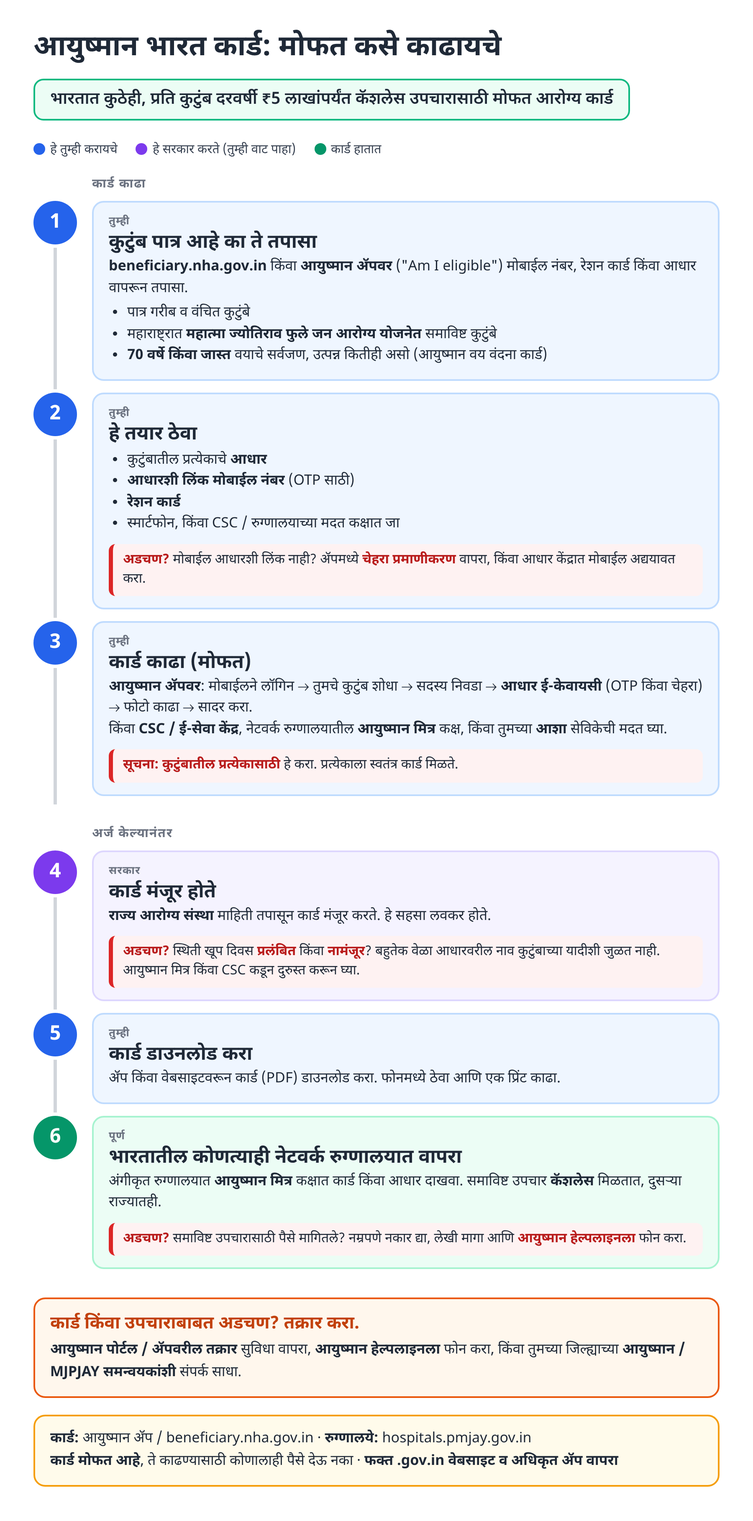
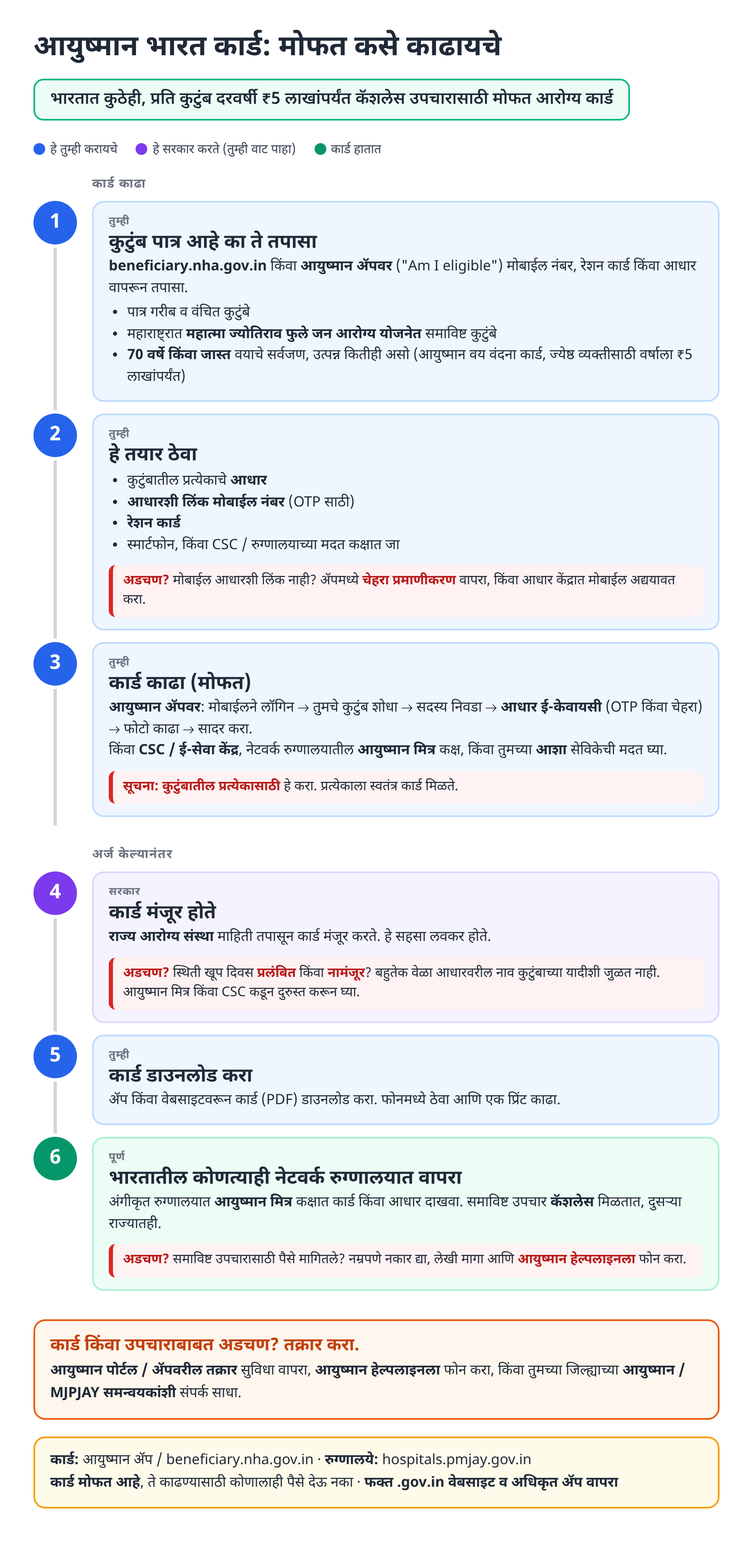
Verify batch 1 guides against sources and apply corrections
Ladki Bahin: annual eKYC, removals, possible registration closure.
PMAY-U 2.0: one-vertical rule and ISS figures.
Ayushman: Vay Vandana covers the senior individually.
Shiv Bhojan: scheme confirmed continuing.
MJPJAY, Annasaheb Patil: findings recorded, no guide change.

Claude-Session: https://claude.ai/code/session_01DHsCyWmbgmnicfdMBb55Ki

Changed region(s): [[0.0311, 0.0311, 0.9644, 0.964], [0.0311, 0.653, 0.0933, 0.7774]]

diff --git a/docs/workflows/ladki-bahin-guide-mr.html b/docs/workflows/ladki-bahin-guide-mr.html
@@ -39,11 +39,11 @@
   <div class="step you"><div class="rail"><div class="num">1</div><div class="line"></div></div><div class="card"><div class="who">तुम्ही</div><div class="title">पात्रता तपासा</div><div class="body"><ul><li><b>21 ते 65</b> वयाची महिला, <b>महाराष्ट्राची रहिवासी</b></li><li>विवाहित, विधवा, घटस्फोटित, परित्यक्ता किंवा निराधार, किंवा कुटुंबातील <b>एक अविवाहित महिला</b></li><li>कौटुंबिक उत्पन्न <b>वर्षाला ₹2.5 लाखांपर्यंत</b></li></ul></div></div></div>
   <div class="step you"><div class="rail"><div class="num">2</div><div class="line"></div></div><div class="card"><div class="who">तुम्ही</div><div class="title">कोण अर्ज करू शकत नाही</div><div class="body">तुमच्या कुटुंबातील कोणी:<ul><li>आयकर भरत असेल, किंवा सरकारी कर्मचारी / निवृत्तीवेतनधारक असेल</li><li><b>चारचाकी वाहन</b> असेल (ट्रॅक्टर चालतो)</li><li>खासदार / आमदार असेल किंवा मंडळ / महामंडळावर पद असेल</li></ul>तर तुम्ही <b>अर्ज करू शकत नाही</b>. तसेच दुसऱ्या सरकारी योजनेतून आधीच ₹1,500 किंवा जास्त मिळत असतील तरीही नाही.</div><div class="stuck"><b>अडचण?</b> पात्र नसताना अर्ज केल्यास नंतर पैसे <b>बंद होऊन वसूल</b> केले जाऊ शकतात. खरी माहिती द्या.</div></div></div>
   <div class="step you"><div class="rail"><div class="num">3</div><div class="line"></div></div><div class="card"><div class="who">तुम्ही</div><div class="title">कागदपत्रे तयार ठेवा</div><div class="body"><ul><li>आधार कार्ड</li><li><b>रहिवासाचा पुरावा</b>: अधिवास प्रमाणपत्र, किंवा जुने रेशन कार्ड / मतदार ओळखपत्र / शाळा सोडल्याचा दाखला / जन्म दाखला</li><li><b>उत्पन्नाचा दाखला</b></li><li>रेशन कार्ड, फोटो</li><li><b>आधारशी लिंक</b> असलेले बँक खाते</li><li>सही केलेले हमीपत्र</li></ul></div><div class="stuck"><b>सूचना:</b> <b>पिवळे किंवा केशरी रेशन कार्ड</b> आहे? मग सहसा उत्पन्नाच्या दाखल्याची <b>गरज नाही</b>. महाराष्ट्राबाहेर जन्म पण लग्न इथे झाले? पतीची रहिवासी कागदपत्रे वापरता येतात.</div></div></div>
-  <div class="step you"><div class="rail"><div class="num">4</div><div class="line"></div></div><div class="card"><div class="who">तुम्ही</div><div class="title">अर्ज करा (मोफत)</div><div class="body">यापैकी कोणताही एक मार्ग:<ul><li>वेबसाइट <b>ladakibahin.maharashtra.gov.in</b></li><li>तुमच्या <b>अंगणवाडी सेविका</b>, किंवा वॉर्ड / ग्रामपंचायत मदत कक्ष</li></ul>तुमचा <b>अर्ज क्रमांक</b> लिहून ठेवा.</div><div class="stuck"><b>सूचना:</b> अर्ज करणे <b>मोफत</b> आहे. फॉर्म भरण्यासाठी कोणालाही पैसे देऊ नका.</div></div></div>
+  <div class="step you"><div class="rail"><div class="num">4</div><div class="line"></div></div><div class="card"><div class="who">तुम्ही</div><div class="title">अर्ज करा (मोफत)</div><div class="body">यापैकी कोणताही एक मार्ग:<ul><li>वेबसाइट <b>ladakibahin.maharashtra.gov.in</b></li><li>तुमच्या <b>अंगणवाडी सेविका</b>, किंवा वॉर्ड / ग्रामपंचायत मदत कक्ष</li></ul>तुमचा <b>अर्ज क्रमांक</b> लिहून ठेवा.</div><div class="stuck"><b>अडचण?</b> <b>नवीन नोंदणी बंद असू शकते.</b> अर्ज करण्यापूर्वी पोर्टल तपासा किंवा अंगणवाडी सेविकेला विचारा. अर्ज करणे नेहमी <b>मोफत</b> आहे.</div></div></div>
   <div class="phase">अर्ज केल्यानंतर</div>
   <div class="step gov"><div class="rail"><div class="num">5</div><div class="line"></div></div><div class="card"><div class="who">सरकार</div><div class="title">अर्जाची तपासणी</div><div class="body">महिला व बालविकास विभागाचे अधिकारी तुमचा अर्ज आणि कागदपत्रे तपासतात.</div><div class="stuck"><b>अडचण?</b> अर्ज <b>नामंजूर</b> किंवा <b>परत पाठवला</b>? पोर्टलवर कारण वाचा किंवा अंगणवाडी सेविकेला विचारा. दुरुस्त करून पुन्हा सादर करा.</div></div></div>
-  <div class="step gov"><div class="rail"><div class="num">6</div><div class="line"></div></div><div class="card"><div class="who">सरकार</div><div class="title">मंजुरी: बँक व ई-केवायसी</div><div class="body">तुमचे नाव मंजूर यादीत येते. तुमचे बँक खाते <b>आधार-सीडेड आणि DBT सुरू</b> असले पाहिजे. सांगितल्यावर पोर्टलवर <b>ई-केवायसी</b> पूर्ण करा.</div><div class="stuck"><b>अडचण?</b> ई-केवायसी केली नाही? तुमचे पैसे <b>थांबू</b> शकतात. आधारशी लिंक मोबाईलवरील OTP वापरून पोर्टलवर करा.</div></div></div>
+  <div class="step gov"><div class="rail"><div class="num">6</div><div class="line"></div></div><div class="card"><div class="who">सरकार</div><div class="title">मंजुरी: बँक व ई-केवायसी</div><div class="body">तुमचे नाव मंजूर यादीत येते. तुमचे बँक खाते <b>आधार-सीडेड आणि DBT सुरू</b> असले पाहिजे. खिडकी सुरू झाल्यावर पोर्टलवर <b>दरवर्षी ई-केवायसी</b> पूर्ण करा.</div><div class="stuck"><b>अडचण?</b> ई-केवायसी चुकली? तुम्हाला <b>योजनेतून वगळले</b> जाऊ शकते. अशा प्रकारे लाखो नावे वगळली गेली. चुकीने वगळले (उदा. सरकारी कर्मचारी म्हणून)? पुराव्यासह तक्रार करा.</div></div></div>
   <div class="step done"><div class="rail"><div class="num">7</div></div><div class="card"><div class="who">पूर्ण</div><div class="title">दरमहा ₹1,500 खात्यात जमा</div><div class="body">पैसे <b>DBT</b> द्वारे येतात. बँकेकडून SMS येतो.</div><div class="stuck"><b>अडचण?</b> मंजूर झाले पण पैसे आले नाहीत? बँक खाते आधार-सीडेड नसेल किंवा बंद असेल. बँकेत <b>"आधार सीडिंग करा आणि DBT सुरू करा"</b> असे सांगा.</div></div></div>
   <div class="rights"><div class="t">पैसे येत नाहीत? तक्रार करा.</div>अर्ज क्रमांकासह <b>लाडकी बहीण पोर्टलवर तक्रार</b> नोंदवा, किंवा तुमच्या <b>अंगणवाडी सेविका</b> / जिल्हा <b>महिला व बालविकास कार्यालयाशी</b> संपर्क साधा.</div>
-  <div class="help"><b>ई-केवायसी, बँक लिंक आणि माहिती अचूक ठेवा</b>, सरकार लाभार्थ्यांची पुन्हा पडताळणी करू शकते<br><b>स्थिती तपासा:</b> ladakibahin.maharashtra.gov.in · <b>फक्त .gov.in वेबसाइट वापरा</b></div>
+  <div class="help"><b>दरवर्षी ई-केवायसी करा</b> आणि बँक लिंक व माहिती अचूक ठेवा, सरकार लाभार्थ्यांची पुन्हा पडताळणी करते<br><b>स्थिती तपासा:</b> ladakibahin.maharashtra.gov.in · <b>फक्त .gov.in वेबसाइट वापरा</b></div>
 </div></body></html>

diff --git a/docs/workflows/ladki-bahin-guide.html b/docs/workflows/ladki-bahin-guide.html
@@ -40,11 +40,11 @@
   <div class="step you"><div class="rail"><div class="num">1</div><div class="line"></div></div><div class="card"><div class="who">You</div><div class="title">Check if you can get it <span class="mr">पात्रता तपासा</span></div><div class="body"><ul><li>Woman aged <b>21 to 65</b>, living in <b>Maharashtra</b></li><li>Married, widowed, divorced, abandoned or destitute, or <b>one unmarried woman</b> per family</li><li>Family income <b>up to ₹2.5 lakh a year</b></li></ul></div></div></div>
   <div class="step you"><div class="rail"><div class="num">2</div><div class="line"></div></div><div class="card"><div class="who">You</div><div class="title">Check who cannot apply <span class="mr">कोण अर्ज करू शकत नाही</span></div><div class="body">You <b>cannot</b> apply if anyone in your family:<ul><li>Pays income tax, or is a government employee / pensioner</li><li>Owns a <b>four-wheeler</b> (tractor is allowed)</li><li>Is an MP / MLA or holds a board / corporation post</li></ul>Or if you already get ₹1,500 or more from another government scheme.</div><div class="stuck"><b>Stuck?</b> Applying when not eligible can mean the money is <b>stopped and recovered</b> later. Be honest.</div></div></div>
   <div class="step you"><div class="rail"><div class="num">3</div><div class="line"></div></div><div class="card"><div class="who">You</div><div class="title">Keep these papers ready <span class="mr">कागदपत्रे तयार ठेवा</span></div><div class="body"><ul><li>Aadhaar card</li><li><b>Domicile proof</b>: domicile certificate, or old ration card / voter ID / school leaving certificate / birth certificate</li><li><b>Income certificate</b></li><li>Ration card, photo</li><li>Bank account <b>linked to Aadhaar</b></li><li>Signed undertaking (हमीपत्र)</li></ul></div><div class="stuck"><b>Tip:</b> Have a <b>yellow or orange ration card</b>? You usually <b>don't need</b> an income certificate. Born outside Maharashtra but married here? Your husband's domicile documents can be used.</div></div></div>
-  <div class="step you"><div class="rail"><div class="num">4</div><div class="line"></div></div><div class="card"><div class="who">You</div><div class="title">Apply (it is free) <span class="mr">अर्ज करा (मोफत)</span></div><div class="body">Choose any one:<ul><li>Website <b>ladakibahin.maharashtra.gov.in</b></li><li>Your <b>Anganwadi Sevika</b>, or the ward / Gram Panchayat help desk</li></ul>Note your <b>application number</b>.</div><div class="stuck"><b>Tip:</b> Applying is <b>free</b>. Never pay anyone to fill the form.</div></div></div>
+  <div class="step you"><div class="rail"><div class="num">4</div><div class="line"></div></div><div class="card"><div class="who">You</div><div class="title">Apply (it is free) <span class="mr">अर्ज करा (मोफत)</span></div><div class="body">Choose any one:<ul><li>Website <b>ladakibahin.maharashtra.gov.in</b></li><li>Your <b>Anganwadi Sevika</b>, or the ward / Gram Panchayat help desk</li></ul>Note your <b>application number</b>.</div><div class="stuck"><b>Stuck?</b> <b>New registrations may be closed.</b> Check the portal or ask your Anganwadi Sevika before applying. Applying is always <b>free</b>.</div></div></div>
   <div class="phase">After you apply</div>
   <div class="step gov"><div class="rail"><div class="num">5</div><div class="line"></div></div><div class="card"><div class="who">Government</div><div class="title">Your application is checked <span class="mr">अर्जाची तपासणी</span></div><div class="body">Women and Child Development officials check your form and documents.</div><div class="stuck"><b>Stuck?</b> <b>Rejected</b> or <b>sent back</b>? Read the reason on the portal or ask your Anganwadi Sevika. Correct it and resubmit.</div></div></div>
-  <div class="step gov"><div class="rail"><div class="num">6</div><div class="line"></div></div><div class="card"><div class="who">Government</div><div class="title">Approved: bank and eKYC <span class="mr">मंजुरी: बँक व ई-केवायसी</span></div><div class="body">Your name goes on the approved list. Your bank account must be <b>Aadhaar-seeded with DBT on</b>. Complete <b>eKYC</b> on the portal when asked.</div><div class="stuck"><b>Stuck?</b> eKYC not done? Your money can <b>stop</b>. Do it on the portal with the OTP on your Aadhaar mobile.</div></div></div>
+  <div class="step gov"><div class="rail"><div class="num">6</div><div class="line"></div></div><div class="card"><div class="who">Government</div><div class="title">Approved: bank and eKYC <span class="mr">मंजुरी: बँक व ई-केवायसी</span></div><div class="body">Your name goes on the approved list. Your bank account must be <b>Aadhaar-seeded with DBT on</b>. Complete <b>eKYC every year</b> on the portal when the window opens.</div><div class="stuck"><b>Stuck?</b> Missed eKYC? You can be <b>removed from the scheme</b>. Lakhs of names were dropped this way. Wrongly removed (e.g. flagged as a government employee)? Raise a grievance with proof.</div></div></div>
   <div class="step done"><div class="rail"><div class="num">7</div></div><div class="card"><div class="who">Done</div><div class="title">₹1,500 in your account every month <span class="mr">दरमहा ₹1,500 खात्यात जमा</span></div><div class="body">The money comes by <b>DBT</b>. You get an SMS from your bank.</div><div class="stuck"><b>Stuck?</b> Approved but no money? Your bank account may not be Aadhaar-seeded or may be inactive. Ask the bank for <b>"Aadhaar seeding and DBT on"</b>.</div></div></div>
   <div class="rights"><div class="t">Money not coming? Complain.</div>Raise a <b>grievance on the Ladki Bahin portal</b> with your application number, or ask your <b>Anganwadi Sevika</b> / the district <b>Women and Child Development office</b>.</div>
-  <div class="help"><b>Keep your eKYC, bank link and details correct</b>, the government may re-verify beneficiaries<br><b>Check status:</b> ladakibahin.maharashtra.gov.in · <b>Use only .gov.in websites</b></div>
+  <div class="help"><b>Do eKYC every year</b> and keep your bank link and details correct, the government re-verifies beneficiaries<br><b>Check status:</b> ladakibahin.maharashtra.gov.in · <b>Use only .gov.in websites</b></div>
 </div></body></html>

diff --git a/docs/workflows/pmay-urban-guide-mr.html b/docs/workflows/pmay-urban-guide-mr.html
@@ -37,7 +37,7 @@
   <div class="legend"><span><span class="dot" style="background:#2563eb"></span>हे तुम्ही करायचे</span><span><span class="dot" style="background:#7c3aed"></span>हे सरकार / बँक करते (तुम्ही वाट पाहा)</span><span><span class="dot" style="background:#059669"></span>घर तयार</span></div>
   <div class="phase">अर्ज करण्यापूर्वी</div>
   <div class="step you"><div class="rail"><div class="num">1</div><div class="line"></div></div><div class="card"><div class="who">तुम्ही</div><div class="title">पात्रता तपासा</div><div class="body"><ul><li>तुम्ही <b>शहरात</b> राहता (गावांसाठी: प्रधानमंत्री आवास योजना - ग्रामीण पाहा)</li><li>तुमच्या कुटुंबातील कोणाचेही <b>भारतात कुठेही पक्के घर</b> नाही</li><li>कौटुंबिक उत्पन्न: <b>EWS</b> ₹3 लाखांपर्यंत · <b>LIG</b> ₹3 ते 6 लाख · <b>MIG</b> ₹6 ते 9 लाख वार्षिक</li></ul></div><div class="stuck"><b>सूचना:</b> घर सहसा <b>कुटुंबातील महिलेच्या नावावर</b> किंवा संयुक्त नावावर असते.</div></div></div>
-  <div class="step you"><div class="rail"><div class="num">2</div><div class="line"></div></div><div class="card"><div class="who">तुम्ही</div><div class="title">तुमच्यासाठी योग्य पर्याय निवडा</div><div class="body"><ul><li><b>स्वतःची जागा आहे, घर बांधायचे</b> → BLC: स्वतःच्या जागेवर बांधकामासाठी मदत (EWS)</li><li>सरकारी / भागीदारी प्रकल्पात <b>फ्लॅट घ्यायचा</b> → AHP (EWS)</li><li>बँकेकडून <b>गृहकर्ज घेताय</b> → ISS: व्याज अनुदान (EWS / LIG / MIG)</li><li><b>भाड्याने घर हवे</b> (कामगार, स्थलांतरित) → ARH: परवडणारे भाडेघर</li></ul></div></div></div>
+  <div class="step you"><div class="rail"><div class="num">2</div><div class="line"></div></div><div class="card"><div class="who">तुम्ही</div><div class="title">तुमच्यासाठी योग्य पर्याय निवडा</div><div class="body"><ul><li><b>स्वतःची जागा आहे, घर बांधायचे</b> → BLC: स्वतःच्या जागेवर बांधकामासाठी मदत (EWS)</li><li>सरकारी / भागीदारी प्रकल्पात <b>फ्लॅट घ्यायचा</b> → AHP (EWS)</li><li>बँकेकडून <b>गृहकर्ज घेताय</b> → ISS: व्याज अनुदान (EWS / LIG / MIG)</li><li><b>भाड्याने घर हवे</b> (कामगार, स्थलांतरित) → ARH: परवडणारे भाडेघर</li></ul></div><div class="stuck"><b>सूचना:</b> यापैकी <b>एकच</b> पर्याय वापरता येतो. ISS मध्ये ₹35 लाखांपर्यंतच्या घरासाठी ₹25 लाखांपर्यंतच्या कर्जावर <b>₹1.80 लाखांपर्यंत</b> व्याज अनुदान मिळते.</div></div></div>
   <div class="step you"><div class="rail"><div class="num">3</div><div class="line"></div></div><div class="card"><div class="who">तुम्ही</div><div class="title">कागदपत्रे तयार ठेवा</div><div class="body"><ul><li>कुटुंबातील <b>सर्व सदस्यांचे</b> आधार</li><li>उत्पन्नाचा दाखला / ITR</li><li><b>आधारशी लिंक</b> असलेले बँक खाते</li><li>पक्के घर नसल्याचे स्वयंघोषणापत्र</li><li>BLC साठी: तुमच्या नावावरील <b>जागा / मालमत्ता पत्रक</b></li><li>लागू असल्यास जातीचा दाखला</li></ul></div><div class="stuck"><b>अडचण?</b> जागा तुमच्या नावावर नाही? आधी मालमत्ता पत्रक / फेरफार अद्ययावत करा. BLC साठी जागा कुटुंबाच्या नावावर असावी लागते.</div></div></div>
   <div class="step you"><div class="rail"><div class="num">4</div><div class="line"></div></div><div class="card"><div class="who">तुम्ही</div><div class="title">अर्ज करा (मोफत)</div><div class="body">यापैकी कोणताही एक मार्ग:<ul><li>वेबसाइट <b>pmay-urban.gov.in</b> (आधार OTP)</li><li>तुमच्या <b>महानगरपालिका / नगरपरिषदेतील</b> PMAY कक्ष</li><li>ISS साठी: तुमच्या <b>बँक / गृहवित्त कंपनीमार्फतही</b></li></ul>तुमचा <b>अर्ज क्रमांक</b> लिहून ठेवा.</div><div class="stuck"><b>सूचना:</b> <b>बनावट PMAY वेबसाइट आणि एजंटपासून</b> सावध राहा. अर्ज मोफत आहे. "निवड करून देण्यासाठी" कोणालाही पैसे देऊ नका.</div></div></div>
   <div class="phase">अर्ज केल्यानंतर</div>

diff --git a/docs/workflows/ayushman-card-guide-mr.html b/docs/workflows/ayushman-card-guide-mr.html
@@ -36,7 +36,7 @@
   <div class="benefit">भारतात कुठेही, प्रति कुटुंब दरवर्षी ₹5 लाखांपर्यंत कॅशलेस उपचारासाठी मोफत आरोग्य कार्ड</div>
   <div class="legend"><span><span class="dot" style="background:#2563eb"></span>हे तुम्ही करायचे</span><span><span class="dot" style="background:#7c3aed"></span>हे सरकार करते (तुम्ही वाट पाहा)</span><span><span class="dot" style="background:#059669"></span>कार्ड हातात</span></div>
   <div class="phase">कार्ड काढा</div>
-  <div class="step you"><div class="rail"><div class="num">1</div><div class="line"></div></div><div class="card"><div class="who">तुम्ही</div><div class="title">कुटुंब पात्र आहे का ते तपासा</div><div class="body"><b>beneficiary.nha.gov.in</b> किंवा <b>आयुष्मान ॲपवर</b> ("Am I eligible") मोबाईल नंबर, रेशन कार्ड किंवा आधार वापरून तपासा.<ul><li>पात्र गरीब व वंचित कुटुंबे</li><li>महाराष्ट्रात <b>महात्मा ज्योतिराव फुले जन आरोग्य योजनेत</b> समाविष्ट कुटुंबे</li><li><b>70 वर्षे किंवा जास्त</b> वयाचे सर्वजण, उत्पन्न कितीही असो (आयुष्मान वय वंदना कार्ड)</li></ul></div></div></div>
+  <div class="step you"><div class="rail"><div class="num">1</div><div class="line"></div></div><div class="card"><div class="who">तुम्ही</div><div class="title">कुटुंब पात्र आहे का ते तपासा</div><div class="body"><b>beneficiary.nha.gov.in</b> किंवा <b>आयुष्मान ॲपवर</b> ("Am I eligible") मोबाईल नंबर, रेशन कार्ड किंवा आधार वापरून तपासा.<ul><li>पात्र गरीब व वंचित कुटुंबे</li><li>महाराष्ट्रात <b>महात्मा ज्योतिराव फुले जन आरोग्य योजनेत</b> समाविष्ट कुटुंबे</li><li><b>70 वर्षे किंवा जास्त</b> वयाचे सर्वजण, उत्पन्न कितीही असो (आयुष्मान वय वंदना कार्ड, ज्येष्ठ व्यक्तीसाठी वर्षाला ₹5 लाखांपर्यंत)</li></ul></div></div></div>
   <div class="step you"><div class="rail"><div class="num">2</div><div class="line"></div></div><div class="card"><div class="who">तुम्ही</div><div class="title">हे तयार ठेवा</div><div class="body"><ul><li>कुटुंबातील प्रत्येकाचे <b>आधार</b></li><li><b>आधारशी लिंक मोबाईल नंबर</b> (OTP साठी)</li><li><b>रेशन कार्ड</b></li><li>स्मार्टफोन, किंवा CSC / रुग्णालयाच्या मदत कक्षात जा</li></ul></div><div class="stuck"><b>अडचण?</b> मोबाईल आधारशी लिंक नाही? ॲपमध्ये <b>चेहरा प्रमाणीकरण</b> वापरा, किंवा आधार केंद्रात मोबाईल अद्ययावत करा.</div></div></div>
   <div class="step you"><div class="rail"><div class="num">3</div><div class="line"></div></div><div class="card"><div class="who">तुम्ही</div><div class="title">कार्ड काढा (मोफत)</div><div class="body"><b>आयुष्मान ॲपवर</b>: मोबाईलने लॉगिन → तुमचे कुटुंब शोधा → सदस्य निवडा → <b>आधार ई-केवायसी</b> (OTP किंवा चेहरा) → फोटो काढा → सादर करा.<br>किंवा <b>CSC / ई-सेवा केंद्र</b>, नेटवर्क रुग्णालयातील <b>आयुष्मान मित्र</b> कक्ष, किंवा तुमच्या <b>आशा</b> सेविकेची मदत घ्या.</div><div class="stuck"><b>सूचना:</b> <b>कुटुंबातील प्रत्येकासाठी</b> हे करा. प्रत्येकाला स्वतंत्र कार्ड मिळते.</div></div></div>
   <div class="phase">अर्ज केल्यानंतर</div>

diff --git a/docs/workflows/shiv-bhojan-guide-mr.html b/docs/workflows/shiv-bhojan-guide-mr.html
@@ -37,7 +37,7 @@
   <div class="legend"><span><span class="dot" style="background:#2563eb"></span>हे तुम्ही करायचे</span><span><span class="dot" style="background:#7c3aed"></span>हे केंद्र करते</span><span><span class="dot" style="background:#059669"></span>जेवण मिळाले</span></div>
   <div class="phase">जाण्यापूर्वी</div>
   <div class="step you"><div class="rail"><div class="num">1</div><div class="line"></div></div><div class="card"><div class="who">तुम्ही</div><div class="title">थाळीत काय मिळते</div><div class="body">सुमारे <b>₹10</b> मध्ये <b>चपाती, भाजी, वरण आणि भात</b> असलेली थाळी.<br><b>कोणीही</b> जेवू शकतो. <b>रेशन कार्ड किंवा कोणतेही कागदपत्र</b> लागत नाही.</div></div></div>
-  <div class="step you"><div class="rail"><div class="num">2</div><div class="line"></div></div><div class="card"><div class="who">तुम्ही</div><div class="title">शिवभोजन केंद्र शोधा</div><div class="body">केंद्रे सहसा शहरे व तालुक्याच्या ठिकाणी <b>रुग्णालये, बस स्थानके, बाजार आणि सरकारी कार्यालयांजवळ</b> असतात. स्थानिक लोकांना किंवा <b>तहसील / जिल्हा पुरवठा कार्यालयात</b> विचारा.</div><div class="stuck"><b>सूचना:</b> जाण्यापूर्वी केंद्र सुरू आहे का ते तपासा. केंद्रांची संख्या बदलू शकते.</div></div></div>
+  <div class="step you"><div class="rail"><div class="num">2</div><div class="line"></div></div><div class="card"><div class="who">तुम्ही</div><div class="title">शिवभोजन केंद्र शोधा</div><div class="body">केंद्रे सहसा शहरे व तालुक्याच्या ठिकाणी <b>रुग्णालये, बस स्थानके, बाजार आणि सरकारी कार्यालयांजवळ</b> असतात. स्थानिक लोकांना किंवा <b>तहसील / जिल्हा पुरवठा कार्यालयात</b> विचारा.</div><div class="stuck"><b>सूचना:</b> योजना सुरू आहे, पण एखादे केंद्र बंद होऊ शकते. जाण्यापूर्वी केंद्र सुरू आहे का ते तपासा.</div></div></div>
   <div class="step you"><div class="rail"><div class="num">3</div><div class="line"></div></div><div class="card"><div class="who">तुम्ही</div><div class="title">जेवणाच्या वेळी जा</div><div class="body">केंद्रे मुख्यतः <b>दुपारच्या जेवणाच्या वेळी</b> जेवण देतात. प्रत्येक केंद्राला दररोज <b>ठराविक थाळ्या</b> असतात.</div><div class="stuck"><b>सूचना:</b> <b>लवकर जा.</b> थाळ्या अनेकदा संपतात.</div></div></div>
   <div class="phase">केंद्रावर</div>
   <div class="step gov"><div class="rail"><div class="num">4</div><div class="line"></div></div><div class="card"><div class="who">केंद्र</div><div class="title">₹10 द्या, केंद्र नोंद करते</div><div class="body">ठरलेली रक्कम द्या. केंद्र शिवभोजन ॲपमध्ये तुमचे <b>नाव आणि फोटो</b> घेते. यावरूनच सरकार थाळ्या मोजून केंद्राला पैसे देते.</div><div class="stuck"><b>सूचना:</b> फोटो घेणे <b>सामान्य आणि आवश्यक</b> आहे. त्यासाठी पैसे लागत नाहीत आणि इतर योजनांवर परिणाम होत नाही.</div></div></div>

diff --git a/docs/workflows/pmay-urban-guide.html b/docs/workflows/pmay-urban-guide.html
@@ -38,7 +38,7 @@
   <div class="legend"><span><span class="dot" style="background:#2563eb"></span>You do this</span><span><span class="dot" style="background:#7c3aed"></span>Government / bank does this (you wait)</span><span><span class="dot" style="background:#059669"></span>Home ready</span></div>
   <div class="phase">Before you apply</div>
   <div class="step you"><div class="rail"><div class="num">1</div><div class="line"></div></div><div class="card"><div class="who">You</div><div class="title">Check if you can get it <span class="mr">पात्रता तपासा</span></div><div class="body"><ul><li>You live in a <b>city or town</b> (villages: see PMAY-Gramin)</li><li>No one in your family owns a <b>pucca house anywhere in India</b></li><li>Family income: <b>EWS</b> up to ₹3 lakh · <b>LIG</b> ₹3 to 6 lakh · <b>MIG</b> ₹6 to 9 lakh a year</li></ul></div><div class="stuck"><b>Tip:</b> The house is usually in the name of the <b>woman of the family</b>, or jointly.</div></div></div>
-  <div class="step you"><div class="rail"><div class="num">2</div><div class="line"></div></div><div class="card"><div class="who">You</div><div class="title">Pick the option that fits you <span class="mr">तुमच्यासाठी योग्य पर्याय निवडा</span></div><div class="body"><ul><li><b>Own land, want to build</b> → BLC: help to build on your own plot (EWS)</li><li><b>Want to buy a flat</b> in a government / partner project → AHP (EWS)</li><li><b>Taking a home loan</b> from a bank → ISS: interest subsidy (EWS / LIG / MIG)</li><li><b>Need to rent</b> (workers, migrants) → ARH: affordable rental</li></ul></div></div></div>
+  <div class="step you"><div class="rail"><div class="num">2</div><div class="line"></div></div><div class="card"><div class="who">You</div><div class="title">Pick the option that fits you <span class="mr">तुमच्यासाठी योग्य पर्याय निवडा</span></div><div class="body"><ul><li><b>Own land, want to build</b> → BLC: help to build on your own plot (EWS)</li><li><b>Want to buy a flat</b> in a government / partner project → AHP (EWS)</li><li><b>Taking a home loan</b> from a bank → ISS: interest subsidy (EWS / LIG / MIG)</li><li><b>Need to rent</b> (workers, migrants) → ARH: affordable rental</li></ul></div><div class="stuck"><b>Tip:</b> You can use <b>only one</b> of these options. ISS gives up to <b>₹1.80 lakh</b> interest subsidy on loans up to ₹25 lakh for houses worth up to ₹35 lakh.</div></div></div>
   <div class="step you"><div class="rail"><div class="num">3</div><div class="line"></div></div><div class="card"><div class="who">You</div><div class="title">Keep these papers ready <span class="mr">कागदपत्रे तयार ठेवा</span></div><div class="body"><ul><li>Aadhaar of <b>all family members</b></li><li>Income certificate / ITR</li><li>Bank account <b>linked to Aadhaar</b></li><li>Self-declaration that you own no pucca house</li><li>For BLC: <b>land / property card</b> in your name</li><li>Caste certificate, if applicable</li></ul></div><div class="stuck"><b>Stuck?</b> Plot not in your name? Get the property card / mutation updated first. BLC needs land in the family's name.</div></div></div>
   <div class="step you"><div class="rail"><div class="num">4</div><div class="line"></div></div><div class="card"><div class="who">You</div><div class="title">Apply (it is free) <span class="mr">अर्ज करा (मोफत)</span></div><div class="body">Choose any one:<ul><li>Website <b>pmay-urban.gov.in</b> (Aadhaar OTP)</li><li>Your <b>municipal corporation / council</b> PMAY cell</li><li>For ISS: also through your <b>bank / housing finance company</b></li></ul>Note your <b>application number</b>.</div><div class="stuck"><b>Tip:</b> Beware of <b>fake PMAY websites and agents</b>. Applying is free. Never pay to "get selected".</div></div></div>
   <div class="phase">After you apply</div>

diff --git a/docs/workflows/ayushman-card-guide.html b/docs/workflows/ayushman-card-guide.html
@@ -37,7 +37,7 @@
   <div class="benefit">Free health card for cashless treatment up to ₹5 lakh per family per year, anywhere in India</div>
   <div class="legend"><span><span class="dot" style="background:#2563eb"></span>You do this</span><span><span class="dot" style="background:#7c3aed"></span>Government does this (you wait)</span><span><span class="dot" style="background:#059669"></span>Card in hand</span></div>
   <div class="phase">Make the card</div>
-  <div class="step you"><div class="rail"><div class="num">1</div><div class="line"></div></div><div class="card"><div class="who">You</div><div class="title">Check if your family is eligible <span class="mr">पात्रता तपासा</span></div><div class="body">Check on <b>beneficiary.nha.gov.in</b> or the <b>Ayushman app</b> ("Am I eligible") using your mobile number, ration card or Aadhaar.<ul><li>Eligible poor and vulnerable families</li><li>In Maharashtra, families covered under <b>MJPJAY</b></li><li>Everyone aged <b>70 or more</b>, whatever their income (Ayushman Vay Vandana card)</li></ul></div></div></div>
+  <div class="step you"><div class="rail"><div class="num">1</div><div class="line"></div></div><div class="card"><div class="who">You</div><div class="title">Check if your family is eligible <span class="mr">पात्रता तपासा</span></div><div class="body">Check on <b>beneficiary.nha.gov.in</b> or the <b>Ayushman app</b> ("Am I eligible") using your mobile number, ration card or Aadhaar.<ul><li>Eligible poor and vulnerable families</li><li>In Maharashtra, families covered under <b>MJPJAY</b></li><li>Everyone aged <b>70 or more</b>, whatever their income (Ayushman Vay Vandana card, up to ₹5 lakh a year for the senior)</li></ul></div></div></div>
   <div class="step you"><div class="rail"><div class="num">2</div><div class="line"></div></div><div class="card"><div class="who">You</div><div class="title">Keep these ready <span class="mr">हे तयार ठेवा</span></div><div class="body"><ul><li><b>Aadhaar</b> of each family member</li><li><b>Mobile number linked to Aadhaar</b> (for OTP)</li><li><b>Ration card</b></li><li>A smartphone, or go to a CSC / hospital help desk</li></ul></div><div class="stuck"><b>Stuck?</b> Mobile not linked to Aadhaar? Use <b>face authentication</b> in the app, or update the mobile at an Aadhaar centre.</div></div></div>
   <div class="step you"><div class="rail"><div class="num">3</div><div class="line"></div></div><div class="card"><div class="who">You</div><div class="title">Make the card (it is free) <span class="mr">कार्ड काढा (मोफत)</span></div><div class="body">On the <b>Ayushman app</b>: log in with mobile → search your family → select a member → <b>Aadhaar eKYC</b> (OTP or face) → take photo → submit.<br>Or get help at a <b>CSC / e-Seva Kendra</b>, the <b>Ayushman Mitra</b> desk at a network hospital, or your <b>ASHA</b> worker.</div><div class="stuck"><b>Tip:</b> Repeat for <b>every family member</b>. Each person gets their own card.</div></div></div>
   <div class="phase">After you apply</div>

diff --git a/docs/workflows/shiv-bhojan-guide.html b/docs/workflows/shiv-bhojan-guide.html
@@ -38,7 +38,7 @@
   <div class="legend"><span><span class="dot" style="background:#2563eb"></span>You do this</span><span><span class="dot" style="background:#7c3aed"></span>Centre does this</span><span><span class="dot" style="background:#059669"></span>Meal served</span></div>
   <div class="phase">Before you go</div>
   <div class="step you"><div class="rail"><div class="num">1</div><div class="line"></div></div><div class="card"><div class="who">You</div><div class="title">Know what you get <span class="mr">थाळीत काय मिळते</span></div><div class="body">A thali with <b>chapatis, a vegetable, dal and rice</b> for about <b>₹10</b>.<br><b>Anyone</b> can eat. <b>No ration card or document</b> is needed.</div></div></div>
-  <div class="step you"><div class="rail"><div class="num">2</div><div class="line"></div></div><div class="card"><div class="who">You</div><div class="title">Find a Shiv Bhojan centre <span class="mr">शिवभोजन केंद्र शोधा</span></div><div class="body">Centres are usually near <b>hospitals, bus stands, markets and government offices</b> in towns and taluka places. Ask locally or at the <b>Tahsil / District Supply Office</b>.</div><div class="stuck"><b>Tip:</b> Check the centre is still running before you travel. The number of centres can change.</div></div></div>
+  <div class="step you"><div class="rail"><div class="num">2</div><div class="line"></div></div><div class="card"><div class="who">You</div><div class="title">Find a Shiv Bhojan centre <span class="mr">शिवभोजन केंद्र शोधा</span></div><div class="body">Centres are usually near <b>hospitals, bus stands, markets and government offices</b> in towns and taluka places. Ask locally or at the <b>Tahsil / District Supply Office</b>.</div><div class="stuck"><b>Tip:</b> The scheme is running, but individual centres can close. Check the centre is open before you travel.</div></div></div>
   <div class="step you"><div class="rail"><div class="num">3</div><div class="line"></div></div><div class="card"><div class="who">You</div><div class="title">Go at meal time <span class="mr">जेवणाच्या वेळी जा</span></div><div class="body">Centres serve mainly at <b>lunch time</b> (around midday). Each centre has a <b>limited number of plates</b> per day.</div><div class="stuck"><b>Tip:</b> <b>Go early.</b> Plates often run out.</div></div></div>
   <div class="phase">At the centre</div>
   <div class="step gov"><div class="rail"><div class="num">4</div><div class="line"></div></div><div class="card"><div class="who">Centre</div><div class="title">Pay ₹10, centre records you <span class="mr">₹10 द्या, केंद्र नोंद करते</span></div><div class="body">Pay the fixed amount. The centre takes your <b>name and photo</b> in the Shiv Bhojan app. This is how the government counts plates and pays the centre.</div><div class="stuck"><b>Tip:</b> The photo is <b>normal and required</b>. It is not a charge and does not stop you from other schemes.</div></div></div>

diff --git a/docs/workflows/ladki_bahin_content.py b/docs/workflows/ladki_bahin_content.py
@@ -24,20 +24,20 @@ T = {
     ("tip", "Have a <b>yellow or orange ration card</b>? You usually <b>don't need</b> an income certificate. Born outside Maharashtra but married here? Your husband's domicile documents can be used.")),
    ("you", "Apply (it is free)", "अर्ज करा (मोफत)",
     "Choose any one:<ul><li>Website <b>ladakibahin.maharashtra.gov.in</b></li><li>Your <b>Anganwadi Sevika</b>, or the ward / Gram Panchayat help desk</li></ul>Note your <b>application number</b>.",
-    ("tip", "Applying is <b>free</b>. Never pay anyone to fill the form.")),
+    ("stuck", "<b>New registrations may be closed.</b> Check the portal or ask your Anganwadi Sevika before applying. Applying is always <b>free</b>.")),
    ("gov", "Your application is checked", "अर्जाची तपासणी",
     "Women and Child Development officials check your form and documents.",
     ("stuck", "<b>Rejected</b> or <b>sent back</b>? Read the reason on the portal or ask your Anganwadi Sevika. Correct it and resubmit.")),
    ("gov", "Approved: bank and eKYC", "मंजुरी: बँक व ई-केवायसी",
-    "Your name goes on the approved list. Your bank account must be <b>Aadhaar-seeded with DBT on</b>. Complete <b>eKYC</b> on the portal when asked.",
-    ("stuck", "eKYC not done? Your money can <b>stop</b>. Do it on the portal with the OTP on your Aadhaar mobile.")),
+    "Your name goes on the approved list. Your bank account must be <b>Aadhaar-seeded with DBT on</b>. Complete <b>eKYC every year</b> on the portal when the window opens.",
+    ("stuck", "Missed eKYC? You can be <b>removed from the scheme</b>. Lakhs of names were dropped this way. Wrongly removed (e.g. flagged as a government employee)? Raise a grievance with proof.")),
    ("done", "₹1,500 in your account every month", "दरमहा ₹1,500 खात्यात जमा",
     "The money comes by <b>DBT</b>. You get an SMS from your bank.",
     ("stuck", "Approved but no money? Your bank account may not be Aadhaar-seeded or may be inactive. Ask the bank for <b>\"Aadhaar seeding and DBT on\"</b>.")),
   ],
   rights_t="Money not coming? Complain.",
   rights="Raise a <b>grievance on the Ladki Bahin portal</b> with your application number, or ask your <b>Anganwadi Sevika</b> / the district <b>Women and Child Development office</b>.",
-  help="<b>Keep your eKYC, bank link and details correct</b>, the government may re-verify beneficiaries<br><b>Check status:</b> ladakibahin.maharashtra.gov.in · <b>Use only .gov.in websites</b>",
+  help="<b>Do eKYC every year</b> and keep your bank link and details correct, the government re-verifies beneficiaries<br><b>Check status:</b> ladakibahin.maharashtra.gov.in · <b>Use only .gov.in websites</b>",
  ),
  "mr": dict(
   lang="mr", font="'Noto Sans Devanagari','Noto Sans','FreeSans',sans-serif",
@@ -59,19 +59,19 @@ T = {
     ("tip", "<b>पिवळे किंवा केशरी रेशन कार्ड</b> आहे? मग सहसा उत्पन्नाच्या दाखल्याची <b>गरज नाही</b>. महाराष्ट्राबाहेर जन्म पण लग्न इथे झाले? पतीची रहिवासी कागदपत्रे वापरता येतात.")),
    ("you", "अर्ज करा (मोफत)", None,
     "यापैकी कोणताही एक मार्ग:<ul><li>वेबसाइट <b>ladakibahin.maharashtra.gov.in</b></li><li>तुमच्या <b>अंगणवाडी सेविका</b>, किंवा वॉर्ड / ग्रामपंचायत मदत कक्ष</li></ul>तुमचा <b>अर्ज क्रमांक</b> लिहून ठेवा.",
-    ("tip", "अर्ज करणे <b>मोफत</b> आहे. फॉर्म भरण्यासाठी कोणालाही पैसे देऊ नका.")),
+    ("stuck", "<b>नवीन नोंदणी बंद असू शकते.</b> अर्ज करण्यापूर्वी पोर्टल तपासा किंवा अंगणवाडी सेविकेला विचारा. अर्ज करणे नेहमी <b>मोफत</b> आहे.")),
    ("gov", "अर्जाची तपासणी", None,
     "महिला व बालविकास विभागाचे अधिकारी तुमचा अर्ज आणि कागदपत्रे तपासतात.",
     ("stuck", "अर्ज <b>नामंजूर</b> किंवा <b>परत पाठवला</b>? पोर्टलवर कारण वाचा किंवा अंगणवाडी सेविकेला विचारा. दुरुस्त करून पुन्हा सादर करा.")),
    ("gov", "मंजुरी: बँक व ई-केवायसी", None,
-    "तुमचे नाव मंजूर यादीत येते. तुमचे बँक खाते <b>आधार-सीडेड आणि DBT सुरू</b> असले पाहिजे. सांगितल्यावर पोर्टलवर <b>ई-केवायसी</b> पूर्ण करा.",
-    ("stuck", "ई-केवायसी केली नाही? तुमचे पैसे <b>थांबू</b> शकतात. आधारशी लिंक मोबाईलवरील OTP वापरून पोर्टलवर करा.")),
+    "तुमचे नाव मंजूर यादीत येते. तुमचे बँक खाते <b>आधार-सीडेड आणि DBT सुरू</b> असले पाहिजे. खिडकी सुरू झाल्यावर पोर्टलवर <b>दरवर्षी ई-केवायसी</b> पूर्ण करा.",
+    ("stuck", "ई-केवायसी चुकली? तुम्हाला <b>योजनेतून वगळले</b> जाऊ शकते. अशा प्रकारे लाखो नावे वगळली गेली. चुकीने वगळले (उदा. सरकारी कर्मचारी म्हणून)? पुराव्यासह तक्रार करा.")),
    ("done", "दरमहा ₹1,500 खात्यात जमा", None,
     "पैसे <b>DBT</b> द्वारे येतात. बँकेकडून SMS येतो.",
     ("stuck", "मंजूर झाले पण पैसे आले नाहीत? बँक खाते आधार-सीडेड नसेल किंवा बंद असेल. बँकेत <b>\"आधार सीडिंग करा आणि DBT सुरू करा\"</b> असे सांगा.")),
   ],
   rights_t="पैसे येत नाहीत? तक्रार करा.",
   rights="अर्ज क्रमांकासह <b>लाडकी बहीण पोर्टलवर तक्रार</b> नोंदवा, किंवा तुमच्या <b>अंगणवाडी सेविका</b> / जिल्हा <b>महिला व बालविकास कार्यालयाशी</b> संपर्क साधा.",
-  help="<b>ई-केवायसी, बँक लिंक आणि माहिती अचूक ठेवा</b>, सरकार लाभार्थ्यांची पुन्हा पडताळणी करू शकते<br><b>स्थिती तपासा:</b> ladakibahin.maharashtra.gov.in · <b>फक्त .gov.in वेबसाइट वापरा</b>",
+  help="<b>दरवर्षी ई-केवायसी करा</b> आणि बँक लिंक व माहिती अचूक ठेवा, सरकार लाभार्थ्यांची पुन्हा पडताळणी करते<br><b>स्थिती तपासा:</b> ladakibahin.maharashtra.gov.in · <b>फक्त .gov.in वेबसाइट वापरा</b>",
  ),
 }

diff --git a/docs/workflows/pmay_urban_content.py b/docs/workflows/pmay_urban_content.py
@@ -18,7 +18,8 @@ T = {
     "<ul><li>You live in a <b>city or town</b> (villages: see PMAY-Gramin)</li><li>No one in your family owns a <b>pucca house anywhere in India</b></li><li>Family income: <b>EWS</b> up to ₹3 lakh · <b>LIG</b> ₹3 to 6 lakh · <b>MIG</b> ₹6 to 9 lakh a year</li></ul>",
     ("tip", "The house is usually in the name of the <b>woman of the family</b>, or jointly.")),
    ("you", "Pick the option that fits you", "तुमच्यासाठी योग्य पर्याय निवडा",
-    "<ul><li><b>Own land, want to build</b> → BLC: help to build on your own plot (EWS)</li><li><b>Want to buy a flat</b> in a government / partner project → AHP (EWS)</li><li><b>Taking a home loan</b> from a bank → ISS: interest subsidy (EWS / LIG / MIG)</li><li><b>Need to rent</b> (workers, migrants) → ARH: affordable rental</li></ul>", None),
+    "<ul><li><b>Own land, want to build</b> → BLC: help to build on your own plot (EWS)</li><li><b>Want to buy a flat</b> in a government / partner project → AHP (EWS)</li><li><b>Taking a home loan</b> from a bank → ISS: interest subsidy (EWS / LIG / MIG)</li><li><b>Need to rent</b> (workers, migrants) → ARH: affordable rental</li></ul>",
+    ("tip", "You can use <b>only one</b> of these options. ISS gives up to <b>₹1.80 lakh</b> interest subsidy on loans up to ₹25 lakh for houses worth up to ₹35 lakh.")),
    ("you", "Keep these papers ready", "कागदपत्रे तयार ठेवा",
     "<ul><li>Aadhaar of <b>all family members</b></li><li>Income certificate / ITR</li><li>Bank account <b>linked to Aadhaar</b></li><li>Self-declaration that you own no pucca house</li><li>For BLC: <b>land / property card</b> in your name</li><li>Caste certificate, if applicable</li></ul>",
     ("stuck", "Plot not in your name? Get the property card / mutation updated first. BLC needs land in the family's name.")),
@@ -52,7 +53,8 @@ T = {
     "<ul><li>तुम्ही <b>शहरात</b> राहता (गावांसाठी: प्रधानमंत्री आवास योजना - ग्रामीण पाहा)</li><li>तुमच्या कुटुंबातील कोणाचेही <b>भारतात कुठेही पक्के घर</b> नाही</li><li>कौटुंबिक उत्पन्न: <b>EWS</b> ₹3 लाखांपर्यंत · <b>LIG</b> ₹3 ते 6 लाख · <b>MIG</b> ₹6 ते 9 लाख वार्षिक</li></ul>",
     ("tip", "घर सहसा <b>कुटुंबातील महिलेच्या नावावर</b> किंवा संयुक्त नावावर असते.")),
    ("you", "तुमच्यासाठी योग्य पर्याय निवडा", None,
-    "<ul><li><b>स्वतःची जागा आहे, घर बांधायचे</b> → BLC: स्वतःच्या जागेवर बांधकामासाठी मदत (EWS)</li><li>सरकारी / भागीदारी प्रकल्पात <b>फ्लॅट घ्यायचा</b> → AHP (EWS)</li><li>बँकेकडून <b>गृहकर्ज घेताय</b> → ISS: व्याज अनुदान (EWS / LIG / MIG)</li><li><b>भाड्याने घर हवे</b> (कामगार, स्थलांतरित) → ARH: परवडणारे भाडेघर</li></ul>", None),
+    "<ul><li><b>स्वतःची जागा आहे, घर बांधायचे</b> → BLC: स्वतःच्या जागेवर बांधकामासाठी मदत (EWS)</li><li>सरकारी / भागीदारी प्रकल्पात <b>फ्लॅट घ्यायचा</b> → AHP (EWS)</li><li>बँकेकडून <b>गृहकर्ज घेताय</b> → ISS: व्याज अनुदान (EWS / LIG / MIG)</li><li><b>भाड्याने घर हवे</b> (कामगार, स्थलांतरित) → ARH: परवडणारे भाडेघर</li></ul>",
+    ("tip", "यापैकी <b>एकच</b> पर्याय वापरता येतो. ISS मध्ये ₹35 लाखांपर्यंतच्या घरासाठी ₹25 लाखांपर्यंतच्या कर्जावर <b>₹1.80 लाखांपर्यंत</b> व्याज अनुदान मिळते.")),
    ("you", "कागदपत्रे तयार ठेवा", None,
     "<ul><li>कुटुंबातील <b>सर्व सदस्यांचे</b> आधार</li><li>उत्पन्नाचा दाखला / ITR</li><li><b>आधारशी लिंक</b> असलेले बँक खाते</li><li>पक्के घर नसल्याचे स्वयंघोषणापत्र</li><li>BLC साठी: तुमच्या नावावरील <b>जागा / मालमत्ता पत्रक</b></li><li>लागू असल्यास जातीचा दाखला</li></ul>",
     ("stuck", "जागा तुमच्या नावावर नाही? आधी मालमत्ता पत्रक / फेरफार अद्ययावत करा. BLC साठी जागा कुटुंबाच्या नावावर असावी लागते.")),

diff --git a/docs/workflows/ayushman_card_content.py b/docs/workflows/ayushman_card_content.py
@@ -15,7 +15,7 @@ T = {
   stuck="Stuck?", tip="Tip:",
   steps=[
    ("you", "Check if your family is eligible", "पात्रता तपासा",
-    "Check on <b>beneficiary.nha.gov.in</b> or the <b>Ayushman app</b> (\"Am I eligible\") using your mobile number, ration card or Aadhaar.<ul><li>Eligible poor and vulnerable families</li><li>In Maharashtra, families covered under <b>MJPJAY</b></li><li>Everyone aged <b>70 or more</b>, whatever their income (Ayushman Vay Vandana card)</li></ul>", None),
+    "Check on <b>beneficiary.nha.gov.in</b> or the <b>Ayushman app</b> (\"Am I eligible\") using your mobile number, ration card or Aadhaar.<ul><li>Eligible poor and vulnerable families</li><li>In Maharashtra, families covered under <b>MJPJAY</b></li><li>Everyone aged <b>70 or more</b>, whatever their income (Ayushman Vay Vandana card, up to ₹5 lakh a year for the senior)</li></ul>", None),
    ("you", "Keep these ready", "हे तयार ठेवा",
     "<ul><li><b>Aadhaar</b> of each family member</li><li><b>Mobile number linked to Aadhaar</b> (for OTP)</li><li><b>Ration card</b></li><li>A smartphone, or go to a CSC / hospital help desk</li></ul>",
     ("stuck", "Mobile not linked to Aadhaar? Use <b>face authentication</b> in the app, or update the mobile at an Aadhaar centre.")),
@@ -46,7 +46,7 @@ T = {
   stuck="अडचण?", tip="सूचना:",
   steps=[
    ("you", "कुटुंब पात्र आहे का ते तपासा", None,
-    "<b>beneficiary.nha.gov.in</b> किंवा <b>आयुष्मान ॲपवर</b> (\"Am I eligible\") मोबाईल नंबर, रेशन कार्ड किंवा आधार वापरून तपासा.<ul><li>पात्र गरीब व वंचित कुटुंबे</li><li>महाराष्ट्रात <b>महात्मा ज्योतिराव फुले जन आरोग्य योजनेत</b> समाविष्ट कुटुंबे</li><li><b>70 वर्षे किंवा जास्त</b> वयाचे सर्वजण, उत्पन्न कितीही असो (आयुष्मान वय वंदना कार्ड)</li></ul>", None),
+    "<b>beneficiary.nha.gov.in</b> किंवा <b>आयुष्मान ॲपवर</b> (\"Am I eligible\") मोबाईल नंबर, रेशन कार्ड किंवा आधार वापरून तपासा.<ul><li>पात्र गरीब व वंचित कुटुंबे</li><li>महाराष्ट्रात <b>महात्मा ज्योतिराव फुले जन आरोग्य योजनेत</b> समाविष्ट कुटुंबे</li><li><b>70 वर्षे किंवा जास्त</b> वयाचे सर्वजण, उत्पन्न कितीही असो (आयुष्मान वय वंदना कार्ड, ज्येष्ठ व्यक्तीसाठी वर्षाला ₹5 लाखांपर्यंत)</li></ul>", None),
    ("you", "हे तयार ठेवा", None,
     "<ul><li>कुटुंबातील प्रत्येकाचे <b>आधार</b></li><li><b>आधारशी लिंक मोबाईल नंबर</b> (OTP साठी)</li><li><b>रेशन कार्ड</b></li><li>स्मार्टफोन, किंवा CSC / रुग्णालयाच्या मदत कक्षात जा</li></ul>",
     ("stuck", "मोबाईल आधारशी लिंक नाही? ॲपमध्ये <b>चेहरा प्रमाणीकरण</b> वापरा, किंवा आधार केंद्रात मोबाईल अद्ययावत करा.")),

diff --git a/docs/workflows/shiv_bhojan_content.py b/docs/workflows/shiv_bhojan_content.py
@@ -18,7 +18,7 @@ T = {
     "A thali with <b>chapatis, a vegetable, dal and rice</b> for about <b>₹10</b>.<br><b>Anyone</b> can eat. <b>No ration card or document</b> is needed.", None),
    ("you", "Find a Shiv Bhojan centre", "शिवभोजन केंद्र शोधा",
     "Centres are usually near <b>hospitals, bus stands, markets and government offices</b> in towns and taluka places. Ask locally or at the <b>Tahsil / District Supply Office</b>.",
-    ("tip", "Check the centre is still running before you travel. The number of centres can change.")),
+    ("tip", "The scheme is running, but individual centres can close. Check the centre is open before you travel.")),
    ("you", "Go at meal time", "जेवणाच्या वेळी जा",
     "Centres serve mainly at <b>lunch time</b> (around midday). Each centre has a <b>limited number of plates</b> per day.",
     ("tip", "<b>Go early.</b> Plates often run out.")),
@@ -46,7 +46,7 @@ T = {
     "सुमारे <b>₹10</b> मध्ये <b>चपाती, भाजी, वरण आणि भात</b> असलेली थाळी.<br><b>कोणीही</b> जेवू शकतो. <b>रेशन कार्ड किंवा कोणतेही कागदपत्र</b> लागत नाही.", None),
    ("you", "शिवभोजन केंद्र शोधा", None,
     "केंद्रे सहसा शहरे व तालुक्याच्या ठिकाणी <b>रुग्णालये, बस स्थानके, बाजार आणि सरकारी कार्यालयांजवळ</b> असतात. स्थानिक लोकांना किंवा <b>तहसील / जिल्हा पुरवठा कार्यालयात</b> विचारा.",
-    ("tip", "जाण्यापूर्वी केंद्र सुरू आहे का ते तपासा. केंद्रांची संख्या बदलू शकते.")),
+    ("tip", "योजना सुरू आहे, पण एखादे केंद्र बंद होऊ शकते. जाण्यापूर्वी केंद्र सुरू आहे का ते तपासा.")),
    ("you", "जेवणाच्या वेळी जा", None,
     "केंद्रे मुख्यतः <b>दुपारच्या जेवणाच्या वेळी</b> जेवण देतात. प्रत्येक केंद्राला दररोज <b>ठराविक थाळ्या</b> असतात.",
     ("tip", "<b>लवकर जा.</b> थाळ्या अनेकदा संपतात.")),
